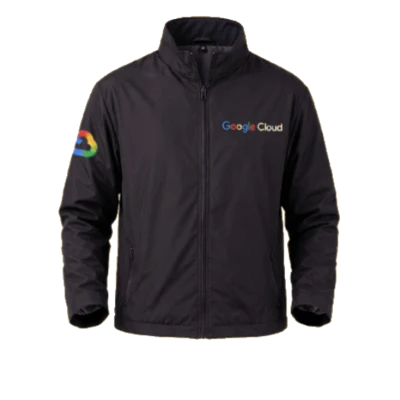
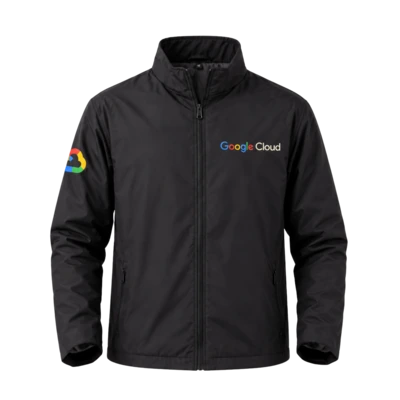
fix(prizes): update swag assets with clean transparent visuals and enlarge preview modal

diff --git a/src/index.css b/src/index.css
@@ -1520,23 +1520,29 @@ button:focus-visible,input:focus-visible{outline:2px solid var(--gold);outline-o
 .spotlight-link-ic{width:12px;height:12px}
 
 /* Lightbox Modal */
-.prize-modal{position:fixed;inset:0;margin:auto;z-index:61;width:min(620px,calc(100vw - 32px));height:max-content;max-height:calc(100vh - 40px);overflow-y:auto;background:var(--panel,#171a34);border:1px solid var(--line);border-radius:18px;padding:20px;box-shadow:0 24px 60px rgba(0,0,0,.6)}
-.prize-modal-x{position:absolute;top:12px;right:12px;width:32px;height:32px;border-radius:8px;background:rgba(255,255,255,.06);border:1px solid var(--line);color:var(--muted);display:flex;align-items:center;justify-content:center;cursor:pointer;transition:.14s}
+.prize-modal{position:fixed;inset:0;margin:auto;z-index:61;width:min(860px,calc(100vw - 32px));height:max-content;max-height:calc(100vh - 40px);overflow-y:auto;background:var(--panel,#171a34);border:1px solid var(--line);border-radius:20px;padding:26px 28px;box-shadow:0 28px 70px rgba(0,0,0,.7)}
+.prize-modal-x{position:absolute;top:14px;right:14px;width:34px;height:34px;border-radius:8px;background:rgba(255,255,255,.06);border:1px solid var(--line);color:var(--muted);display:flex;align-items:center;justify-content:center;cursor:pointer;transition:.14s}
 .prize-modal-x:hover{color:#fff;border-color:rgba(255,255,255,.3)}
 .prize-x-ic{width:16px;height:16px}
-.prize-modal-grid{display:grid;grid-template-columns:230px 1fr;gap:18px;align-items:center}
-@media(max-width:600px){.prize-modal-grid{grid-template-columns:1fr;gap:12px}}
-.prize-modal-photo{background:rgba(0,0,0,.22);border:1px solid var(--line);border-radius:12px;padding:16px;display:flex;align-items:center;justify-content:center;min-height:200px}
-.pm-img{max-height:200px;max-width:100%;object-fit:contain}
-.pm-title{font-size:16px;font-weight:800;color:#fff;margin:0 0 4px}
-.pm-meta{font-size:12px;color:var(--gold);font-weight:700;margin-bottom:10px}
-.pm-section{margin-top:8px;font-size:12px}
-.pm-sec-head{font-size:11px;font-weight:800;color:var(--muted);margin-bottom:4px}
-.pm-items{display:flex;flex-direction:column;gap:5px}
+.prize-modal-grid{display:grid;grid-template-columns:360px 1fr;gap:26px;align-items:center}
+@media(max-width:680px){
+  .prize-modal{padding:18px;border-radius:14px;max-height:calc(100vh - 24px)}
+  .prize-modal-grid{grid-template-columns:1fr;gap:16px}
+  .prize-modal-photo{min-height:240px;aspect-ratio:auto;padding:14px}
+  .pm-img{max-height:240px}
+}
+.prize-modal-photo{background:rgba(0,0,0,.25);border:1px solid var(--line);border-radius:14px;padding:20px;display:flex;align-items:center;justify-content:center;min-height:360px;aspect-ratio:1/1}
+.pm-img{max-height:330px;max-width:100%;width:auto;height:auto;object-fit:contain;filter:drop-shadow(0 8px 24px rgba(0,0,0,.45))}
+.pm-title{font-size:21px;font-weight:800;color:#fff;margin:0 0 6px;line-height:1.25}
+.pm-meta{font-size:13px;color:var(--gold);font-weight:700;margin-bottom:14px}
+.pm-section{margin-top:12px;font-size:13px}
+.pm-sec-head{font-size:11.5px;font-weight:800;color:var(--muted);margin-bottom:6px;letter-spacing:.02em;text-transform:uppercase}
+.pm-items{display:flex;flex-direction:column;gap:8px}
 .pm-item{display:flex;flex-direction:column}
-.pm-item-name{font-weight:700;color:#fff}
-.pm-item-desc{color:var(--muted);font-size:11px}
-.pm-list{margin:0;padding-left:16px;color:var(--muted);line-height:1.45}
-.pm-btn{margin-top:12px;align-self:flex-start;display:inline-flex;align-items:center;gap:6px;font-size:12px;font-weight:700;text-decoration:none;padding:8px 14px}
-.pm-btn-ic{width:13px;height:13px}
+.pm-item-name{font-weight:700;color:#fff;font-size:13.5px}
+.pm-item-desc{color:var(--muted);font-size:12px}
+.pm-list{margin:0;padding-left:18px;color:var(--muted);line-height:1.55;font-size:12.5px}
+.pm-list li{margin-bottom:4px}
+.pm-btn{margin-top:18px;align-self:flex-start;display:inline-flex;align-items:center;gap:8px;font-size:13px;font-weight:700;text-decoration:none;padding:10px 18px;border-radius:8px}
+.pm-btn-ic{width:14px;height:14px}
 
